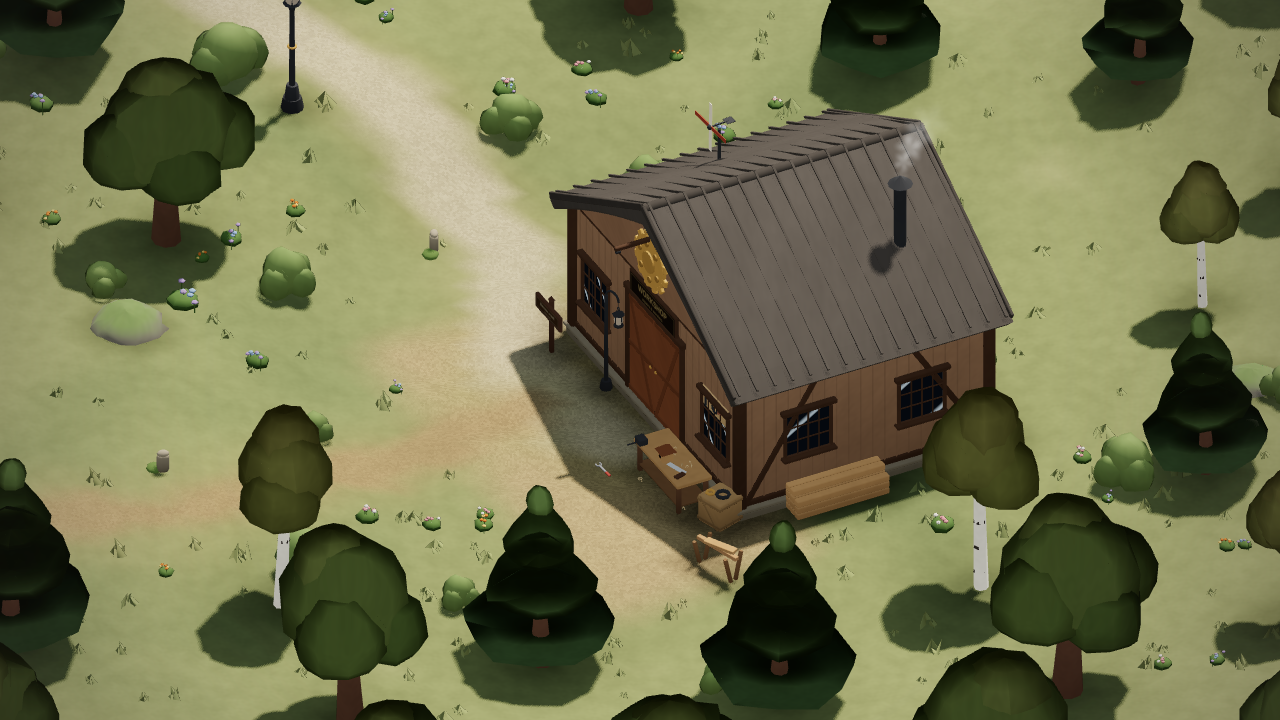
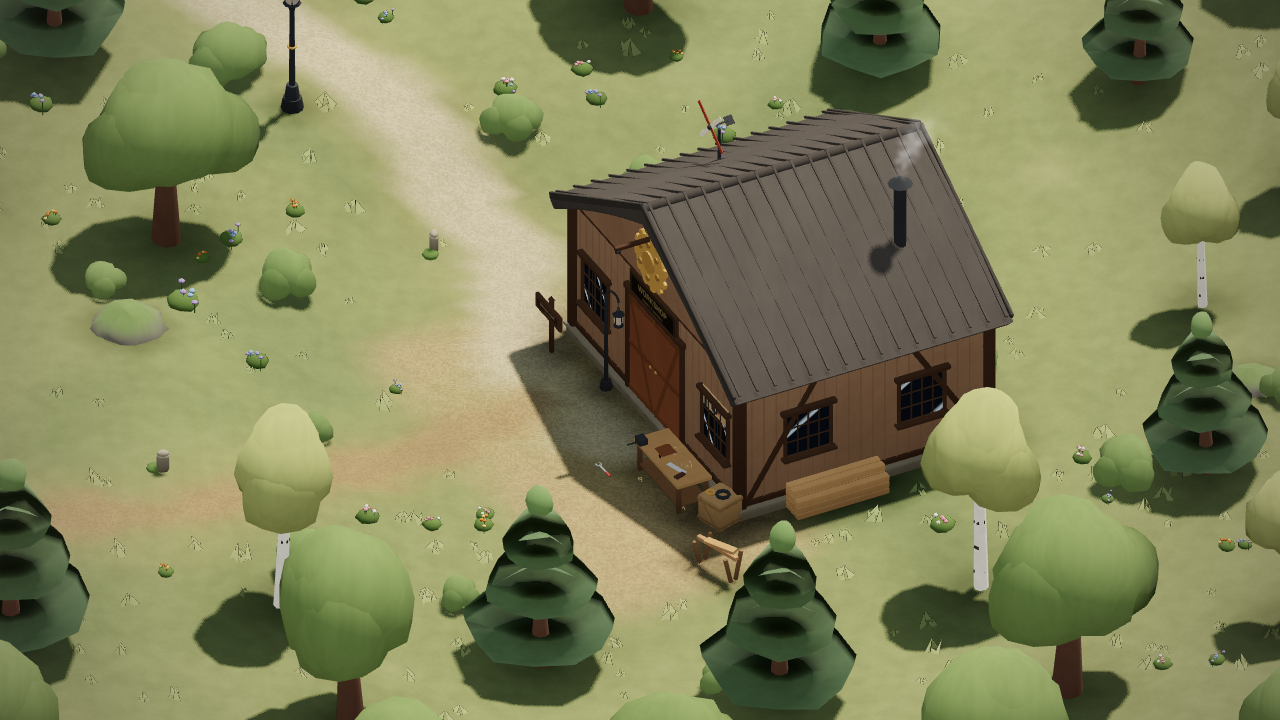
Work in progress: ongoing world rework and UI edits
Snapshot while parallel workers are still editing; not yet integration-tested.

Claude-Session: https://claude.ai/code/session_01FyN1vNSEQg5PzZMCp1zjZW

diff --git a/client/src/App.tsx b/client/src/App.tsx
@@ -66,6 +66,20 @@ function Loading({ error, onRetry }: { error: string | null; onRetry(): void }) 
   );
 }
 
+/** Shown when the server removed this client (kick/ban). Never retries on its own. */
+function Removed({ reason }: { reason: string }) {
+  return (
+    <div className="loading removed" role="alertdialog" aria-labelledby="removed-title" data-testid="removed">
+      <h2 id="removed-title" className="card__title">You were removed from the island</h2>
+      <p className="loading__text">{reason ? `Reason given: ${reason}` : 'A moderator ended your session.'}</p>
+      <p className="loading__text loading__text--small">You won’t be reconnected automatically. If you think this was a mistake, you can try again later.</p>
+      <button type="button" className="btn btn--ghost" onClick={() => location.reload()}>
+        Return to the start
+      </button>
+    </div>
+  );
+}
+
 /** Soft veil that lifts as you arrive in the world. */
 function Reveal() {
   const [on, setOn] = useState(true);
@@ -78,6 +92,7 @@ function Reveal() {
 
 export function App() {
   const phase = useUiStore((s) => s.phase);
+  const kicked = useGameStore((s) => s.kicked);
   const [resumeError, setResumeError] = useState<string | null>(null);
   useUiGlobals();
 
@@ -116,6 +131,7 @@ export function App() {
           <Hud />
           <Chat />
           <Reveal />
+          {kicked ? <Removed reason={kicked.reason} /> : null}
         </>
       ) : phase === 'onboarding' ? (
         <Onboarding onEnter={onEnter} />

diff --git a/client/src/ui/Hud.tsx b/client/src/ui/Hud.tsx
@@ -68,12 +68,14 @@ function OnlineCount() {
 
 function ConnectionPill() {
   const connection = useGameStore((s) => s.connection);
-  if (connection === 'connected' || connection === 'idle') return null;
+  const attempt = useGameStore((s) => s.reconnectAttempt);
+  const kicked = useGameStore((s) => s.kicked);
+  if (connection === 'connected' || connection === 'idle' || kicked) return null;
   const lost = connection === 'disconnected' || connection === 'error';
   return (
     <div className={`pill pill--conn${lost ? ' is-lost' : ''}`} role="status" data-testid="hud-connection">
       <span className="conn-dot" aria-hidden="true" />
-      <span className="pill__label">{lost ? 'Connection lost' : connection === 'connecting' ? 'Connecting…' : 'Reconnecting…'}</span>
+      <span className="pill__label">{lost ? 'Connection lost' : connection === 'connecting' ? 'Connecting…' : attempt > 1 ? `Reconnecting… (try ${attempt})` : 'Reconnecting…'}</span>
       {lost ? (
         <button type="button" className="btn btn--primary btn--xs" onClick={() => location.reload()}>
           Rejoin

diff --git a/client/src/ui/ui.css b/client/src/ui/ui.css
@@ -1403,3 +1403,7 @@ html[data-motion='reduced'] *, html[data-motion='reduced'] *::before, html[data-
   transition-duration: 1ms !important;
 }
 html[data-motion='reduced'] .placecard, html[data-motion='reduced'] .chat-peek { animation: none !important; opacity: 1; }
+
+.removed { z-index: 60; background: rgba(16, 12, 10, 0.9); max-width: none; }
+.removed > * { max-width: 440px; }
+.loading__text--small { font-size: 13.5px; color: var(--text-3); }
